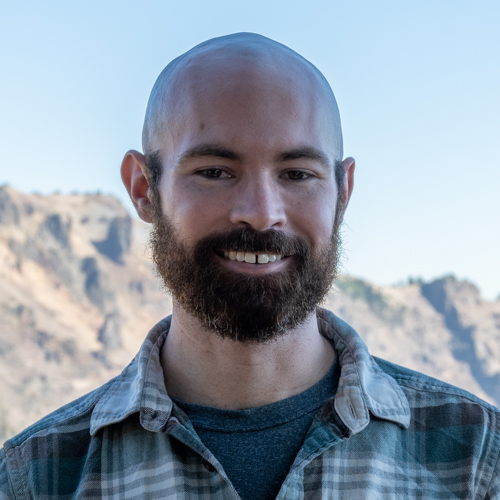
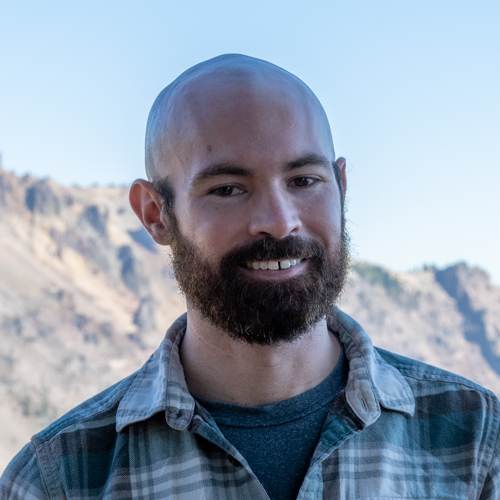
update photo

diff --git a/docs/index.html b/docs/index.html
@@ -236,7 +236,7 @@ window.Quarto = {
     </div>
 </div>
 <div class="list quarto-listing-default">
-<div class="quarto-post image-right" data-index="0" data-categories="politics" data-listing-date-sort="1709452800000" data-listing-file-modified-sort="1709709426484" data-listing-date-modified-sort="NaN" data-listing-reading-time-sort="19" data-listing-word-count-sort="3664">
+<div class="quarto-post image-right" data-index="0" data-categories="politics" data-listing-date-sort="1709452800000" data-listing-file-modified-sort="1709709524948" data-listing-date-modified-sort="NaN" data-listing-reading-time-sort="19" data-listing-word-count-sort="3664">
 <div class="thumbnail">
 <p><a href="./posts/2024_03_02-SF_political_support_data.html" class="no-external"></a></p><a href="./posts/2024_03_02-SF_political_support_data.html" class="no-external">
 <p><img src="./posts/2024_03_02-San_Francisco_and_Bay.jpg" class="thumbnail-image"></p>
